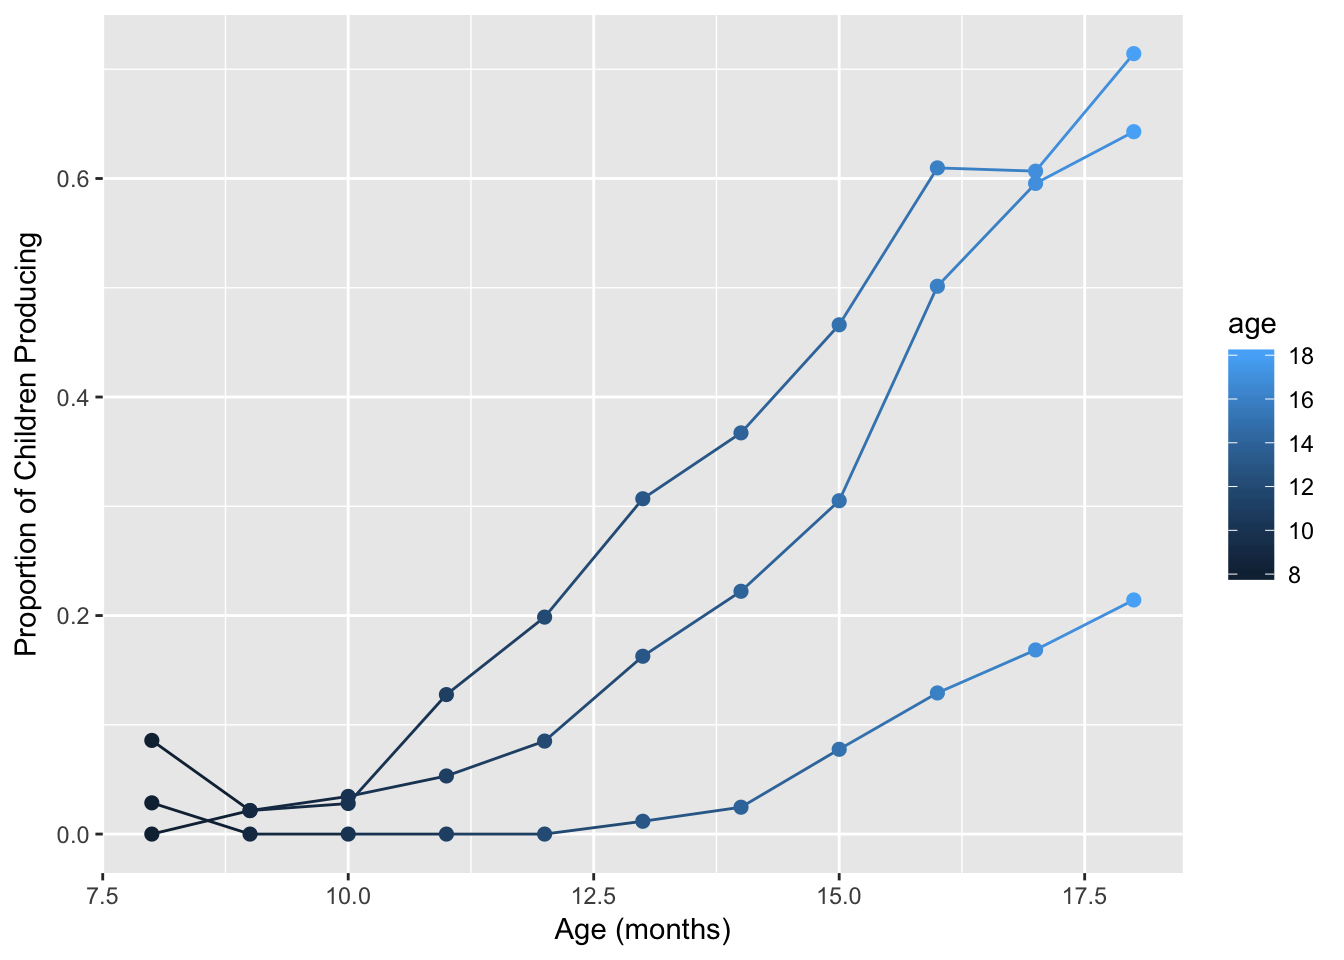
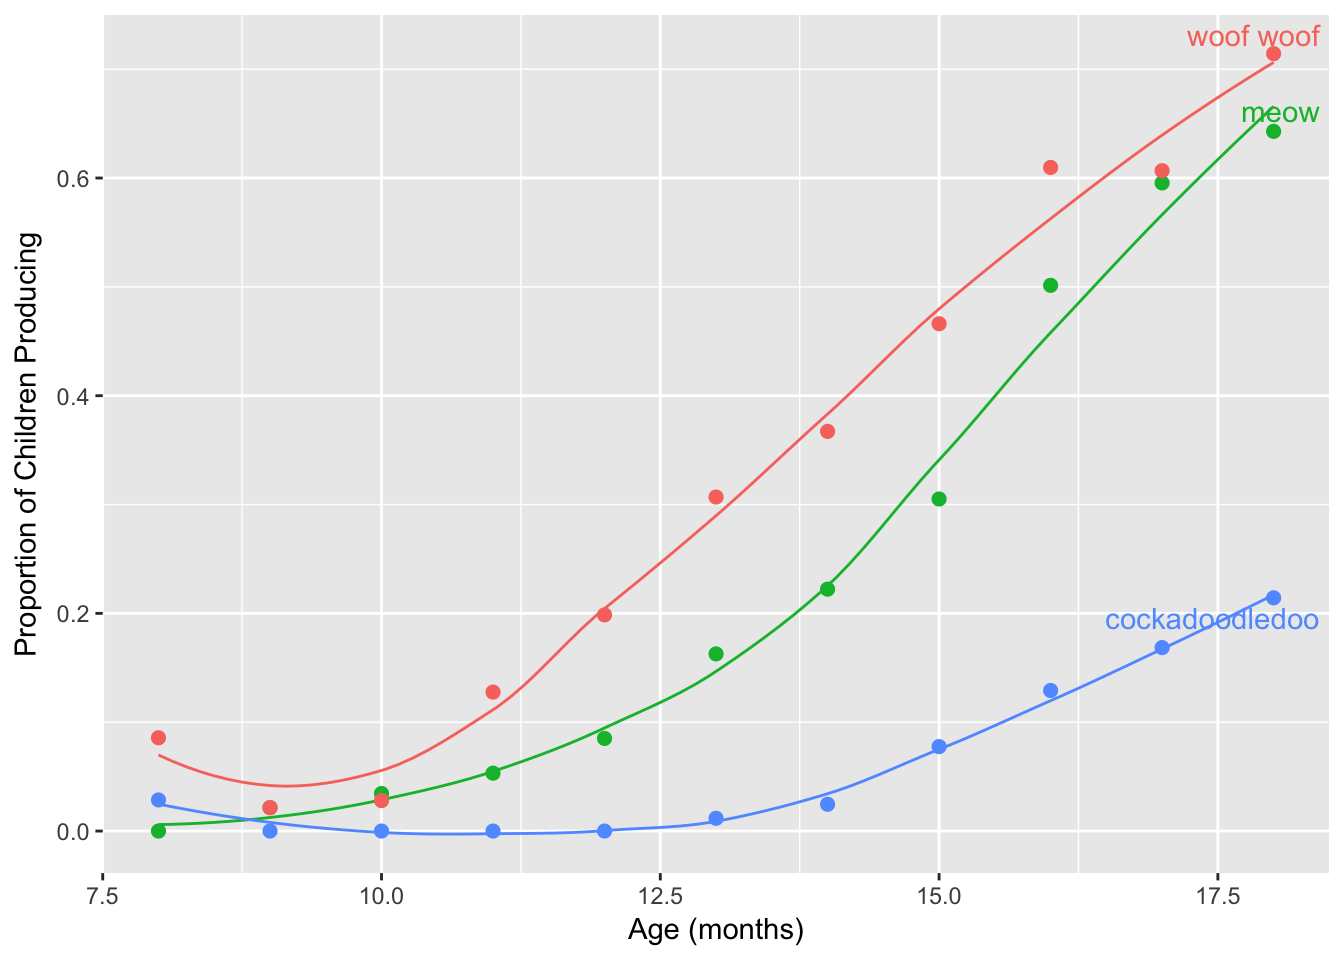
revise past slides with links

diff --git a/03-colors.html b/03-colors.html
@@ -929,9 +929,32 @@ sound_traj +
   scale_colour_manual(values = cbbPalette[c(3, 7, 8)])</code></pre>
 <p><img src="03-colors_files/figure-html/unnamed-chunk-57-1.png" width="672" /></p>
 </div>
+<div id="repel-labels" class="section level2">
+<h2><span class="header-section-number">9.8</span> Repel labels</h2>
+<pre class="r"><code>library(ggrepel)
+
+sounds &lt;- sounds %&gt;%
+  mutate(label = case_when(
+    age == max(age) ~ sound))
+
+ggplot(sounds, aes(x = age, 
+                   y = prop_produce, 
+                   color = fct_reorder2(sound, age, prop_produce))) +
+  geom_smooth(se = FALSE, lwd = .5) +
+  geom_point(size = 2) +
+  labs(x = &quot;Age (months)&quot;, 
+       y = &quot;Proportion of Children Producing&quot;) +
+  geom_text_repel(aes(label = label),
+                  nudge_x = 1,
+                  direction = &quot;y&quot;,
+                  na.rm = TRUE) +
+  guides(color = FALSE)</code></pre>
+<p><img src="03-colors_files/figure-html/unnamed-chunk-58-1.png" width="672" /></p>
+</div>
 </div>
 <div id="continuous-colors" class="section level1">
 <h1><span class="header-section-number">10</span> Continuous colors</h1>
+<p><em>N.B. All of the example plots below are great examples of how <strong>not</strong> to use continuous colors. I’m showing these so you can see how to work with continuous color palettes, and to make this topic flow easier for you I’m sticking with original dataset.</em></p>
 <div id="default-continuous-palette" class="section level2">
 <h2><span class="header-section-number">10.1</span> Default continuous palette</h2>
 <p>Let’s map color to a continuous variable. For this, we are returning to <code>geom_line</code> instead of <code>geom_smooth</code>, because the latter doesn’t respond to continuous color palettes.</p>
@@ -943,25 +966,25 @@ sound_traj +
   labs(x = &quot;Age (months)&quot;, 
        y = &quot;Proportion of Children Producing&quot;)
 sound_by_age</code></pre>
-<p><img src="03-colors_files/figure-html/unnamed-chunk-58-1.png" width="672" /></p>
+<p><img src="03-colors_files/figure-html/unnamed-chunk-59-1.png" width="672" /></p>
 </div>
 <div id="color-choice-with-continuous-variables" class="section level2">
 <h2><span class="header-section-number">10.2</span> Color choice with continuous variables</h2>
 <p>With discrete colors, we used either <code>scale_color_manual</code> or <code>scale_fill_manual</code> (and sometimes both were needed!). For continuous colors, we use either <code>scale_color_gradient</code> or <code>scale_fill_gradient</code>.</p>
 <pre class="r"><code>sound_by_age +
   scale_color_gradient()</code></pre>
-<p><img src="03-colors_files/figure-html/unnamed-chunk-59-1.png" width="672" /></p>
+<p><img src="03-colors_files/figure-html/unnamed-chunk-60-1.png" width="672" /></p>
 <p>You can reverse the gradient scale…</p>
 <pre class="r"><code>sound_by_age +
   scale_color_gradient(trans = &quot;reverse&quot;)</code></pre>
-<p><img src="03-colors_files/figure-html/unnamed-chunk-60-1.png" width="672" /></p>
+<p><img src="03-colors_files/figure-html/unnamed-chunk-61-1.png" width="672" /></p>
 <pre class="r"><code>sound_by_age +
   scale_color_gradient(low = &quot;white&quot;, high = &quot;red&quot;)</code></pre>
-<p><img src="03-colors_files/figure-html/unnamed-chunk-61-1.png" width="672" /></p>
+<p><img src="03-colors_files/figure-html/unnamed-chunk-62-1.png" width="672" /></p>
 <p>We can make this same plot using a custom greyscale gradient.</p>
 <pre class="r"><code>sound_by_age +
   scale_color_gradient(low = &quot;grey90&quot;, high = &quot;black&quot;)</code></pre>
-<p><img src="03-colors_files/figure-html/unnamed-chunk-62-1.png" width="672" /></p>
+<p><img src="03-colors_files/figure-html/unnamed-chunk-63-1.png" width="672" /></p>
 <p>So <code>scale_color_gradient</code> gives you a sequential gradient, but you may want a diverging color scheme instead. For that, you can use <code>scale_color_gradient2</code></p>
 <pre class="r"><code># Diverging color scheme
 med_age &lt;- sounds %&gt;% 
@@ -970,7 +993,7 @@ med_age &lt;- sounds %&gt;%
 sound_by_age +
   scale_color_gradient2(midpoint = med_age,
                       low=&quot;blue&quot;, mid=&quot;white&quot;, high=&quot;red&quot; )</code></pre>
-<p><img src="03-colors_files/figure-html/unnamed-chunk-63-1.png" width="672" /></p>
+<p><img src="03-colors_files/figure-html/unnamed-chunk-64-1.png" width="672" /></p>
 </div>
 <div id="built-in-continuous-palettes" class="section level2">
 <h2><span class="header-section-number">10.3</span> Built-in continuous palettes</h2>
@@ -981,11 +1004,11 @@ sound_by_age +
 <p>Then use <code>scale_color_gradientn</code>.</p>
 <pre class="r"><code>sound_by_age +
   scale_color_gradientn(colours = brewer.pal(n=5, name=&quot;PuBuGn&quot;))</code></pre>
-<p><img src="03-colors_files/figure-html/unnamed-chunk-65-1.png" width="672" /></p>
+<p><img src="03-colors_files/figure-html/unnamed-chunk-66-1.png" width="672" /></p>
 <p>Reverse the colors…</p>
 <pre class="r"><code>sound_by_age +
   scale_color_gradientn(colours = rev(brewer.pal(n=5, name=&quot;PuBuGn&quot;)))</code></pre>
-<p><img src="03-colors_files/figure-html/unnamed-chunk-66-1.png" width="672" /></p>
+<p><img src="03-colors_files/figure-html/unnamed-chunk-67-1.png" width="672" /></p>
 </div>
 <div id="viridis" class="section level3">
 <h3><span class="header-section-number">10.3.2</span> Viridis</h3>
@@ -995,14 +1018,14 @@ sound_by_age +
 <p>Note! For discrete == FALSE (the default) all other arguments are as to <code>scale_fill_gradientn</code> or <code>scale_color_gradientn</code>.</p>
 <pre class="r"><code>sound_by_age +
   scale_color_viridis()</code></pre>
-<p><img src="03-colors_files/figure-html/unnamed-chunk-68-1.png" width="672" /></p>
+<p><img src="03-colors_files/figure-html/unnamed-chunk-69-1.png" width="672" /></p>
 <pre class="r"><code>sound_by_age +
   scale_color_viridis(option = &quot;magma&quot;)</code></pre>
-<p><img src="03-colors_files/figure-html/unnamed-chunk-69-1.png" width="672" /></p>
+<p><img src="03-colors_files/figure-html/unnamed-chunk-70-1.png" width="672" /></p>
 <p>Read the help function for <code>?scale_color_viridis</code>. We’ll use the “inferno” palette <em>in reverse</em>.</p>
 <pre class="r"><code>sound_by_age +
   scale_color_viridis(option = &quot;inferno&quot;, begin = 1, end = 0)</code></pre>
-<p><img src="03-colors_files/figure-html/unnamed-chunk-70-1.png" width="672" /></p>
+<p><img src="03-colors_files/figure-html/unnamed-chunk-71-1.png" width="672" /></p>
 </div>
 </div>
 </div>
@@ -1031,6 +1054,11 @@ Challenge #10:
 <ul>
 <li><a href="https://cran.r-project.org/web/packages/wordbankr/index.html">R package <code>wordbankr</code></a></li>
 <li>See my code <a href="03a-meow-cleaning.html">here</a></li>
+</ul></li>
+<li>POTUS Executive Orders
+<ul>
+<li><a href="https://www.federalregister.gov/executive-orders">Data</a></li>
+<li>Follow Bob Rudis’ code-through <a href="https://rud.is/b/2018/04/18/examining-potus-executive-orders/">here</a></li>
 </ul></li>
 <li>National Electronic Injury Surveillance System (NEISS)
 <ul>

diff --git a/slides/04-slides.html b/slides/04-slides.html
@@ -1,0 +1,123 @@
+<!DOCTYPE html>
+<html>
+  <head>
+    <title>Lab 04: CS631</title>
+    <meta charset="utf-8">
+    <meta name="author" content="Alison Hill" />
+    <link href="libs/remark-css/default.css" rel="stylesheet" />
+    <link rel="stylesheet" href="css/ohsu.css" type="text/css" />
+    <link rel="stylesheet" href="css/ohsu-fonts.css" type="text/css" />
+  </head>
+  <body>
+    <textarea id="source">
+class: center, middle, inverse, title-slide
+
+# Lab 04: CS631
+## Working with Tidy Data
+### Alison Hill
+
+---
+
+
+
+
+---
+class: middle, center, inverse
+
+# ⌛
+
+## Let's review 
+
+---
+
+## Data wrangling to date! 
+
+
+.pull-left[
+
+From `dplyr`:
+- `filter`
+- `arrange`
+- `mutate`
+- `group_by`
+- `summarize`
+- `glimpse`
+- `distinct`
+- `count`
+- `tally`
+- `pull`
+- `top_n`
+
+]
+
+--
+
+.pull-right[
+Let's add from `dplyr`:
+
+- `select`
+- `rename`
+- `recode`
+- `case_when`
+
+From `tidyr`:
+
+- `gather`
+- `separate`
+- `spread`
+- `unite`
+
+Plus 1 other package:
+
+- `skimr::skim`
+
+]
+---
+class: middle, inverse, center
+
+# 🌊
+
+## Workflows:
+
+http://r4ds.had.co.nz/workflow-projects.html
+
+https://www.tidyverse.org/articles/2017/12/workflow-vs-script/
+
+https://andrewbtran.github.io/NICAR/2018/workflow/docs/01-workflow_intro.html
+    </textarea>
+<script src="https://remarkjs.com/downloads/remark-latest.min.js"></script>
+<script>var slideshow = remark.create({
+"highlightStyle": "atelier-lakeside-light",
+"highlightLines": true,
+"countIncrementalSlides": false
+});
+if (window.HTMLWidgets) slideshow.on('afterShowSlide', function (slide) {
+  window.dispatchEvent(new Event('resize'));
+});
+(function() {
+  var d = document, s = d.createElement("style"), r = d.querySelector(".remark-slide-scaler");
+  if (!r) return;
+  s.type = "text/css"; s.innerHTML = "@page {size: " + r.style.width + " " + r.style.height +"; }";
+  d.head.appendChild(s);
+})();</script>
+
+<script type="text/x-mathjax-config">
+MathJax.Hub.Config({
+  tex2jax: {
+    skipTags: ['script', 'noscript', 'style', 'textarea', 'pre']
+  }
+});
+</script>
+<!-- dynamically load mathjax for compatibility with self-contained -->
+<script>
+(function () {
+  var script = document.createElement('script');
+  script.type = 'text/javascript';
+  script.src  = 'https://cdn.bootcss.com/mathjax/2.7.1/MathJax.js?config=TeX-MML-AM_CHTML';
+  if (location.protocol !== 'file:' && /^https?:/.test(script.src))
+    script.src  = script.src.replace(/^https?:/, '');
+  document.getElementsByTagName('head')[0].appendChild(script);
+})();
+</script>
+  </body>
+</html>

diff --git a/slides/02-slides.html b/slides/02-slides.html
@@ -405,13 +405,19 @@ class: inverse, middle, center
 
 # 📊
 
-## Basics of `ggplot2`:
+## Basics of `ggplot2` and `dplyr`:
 
-http://r4ds.had.co.nz/data-visualisation.html
+[R4DS `ggplot2` chapter](http://r4ds.had.co.nz/data-visualisation.html)
 
-http://moderndive.com/3-viz.html
+[ModernDive `ggplot2` chapter](http://moderndive.com/3-viz.html)
 
-https://github.com/rstudio/cheatsheets/blob/master/data-visualization-2.1.pdf
+[RStudio `ggplot2` Cheatsheet](https://github.com/rstudio/cheatsheets/blob/master/data-visualization-2.1.pdf)
+
+[R4DS `dplyr` chapter](http://r4ds.had.co.nz/transform.html)
+
+[ModernDive `dplyr` chapter](http://moderndive.com/5-wrangling.html)
+
+[RStudio `dplyr` Cheatsheet](https://github.com/rstudio/cheatsheets/blob/master/data-transformation.pdf)
     </textarea>
 <script src="https://remarkjs.com/downloads/remark-latest.min.js"></script>
 <script>var slideshow = remark.create({

diff --git a/slides/03-slides.html b/slides/03-slides.html
@@ -365,7 +365,11 @@ class: middle, center, inverse
 
 ## Arithmetic
 
-*especially useful for `mutate`*
+*especially useful for* `mutate`
+
+See:
+
+http://r4ds.had.co.nz/transform.html#mutate-funs
 
 ---
 
@@ -456,9 +460,13 @@ class: middle, center, inverse
 
 ## Summaries
 
-*especially useful for `summarize`*
+*especially useful for* `summarize`
 
-*even more useful after a `group_by`*
+*even more useful after a* `group_by`
+
+See:
+
+http://r4ds.had.co.nz/transform.html#summarise-funs
 
 
 

diff --git a/slides/01-slides.html b/slides/01-slides.html
@@ -88,7 +88,7 @@ You enter commands line-by-line (as opposed to compiled languages).
 ---
 class: center, middle, inverse
 
-# 🗝
+# 🔓
 
 ## Make (&amp; Borrow) Objects in R
 
@@ -101,6 +101,8 @@ RStudio Keyboard Shortcuts:
 OSX: `Option` + `-`
 
 Else: `Alt` + `-`
+
+*(the + means and, not the + key)*
 
 ---
 
